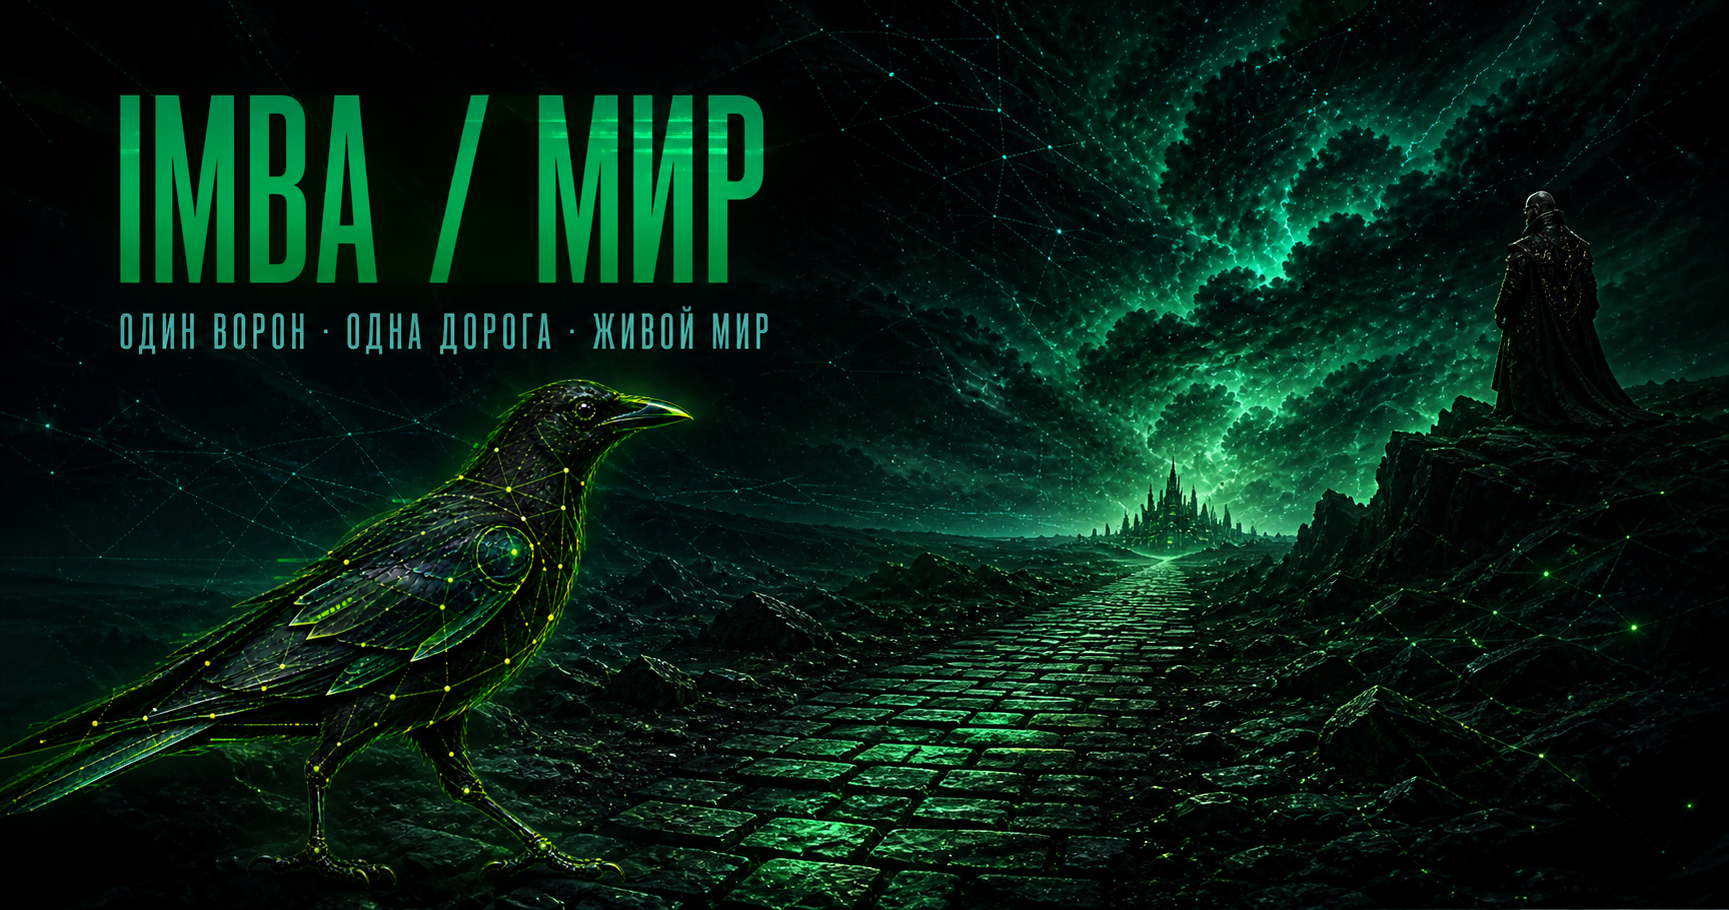
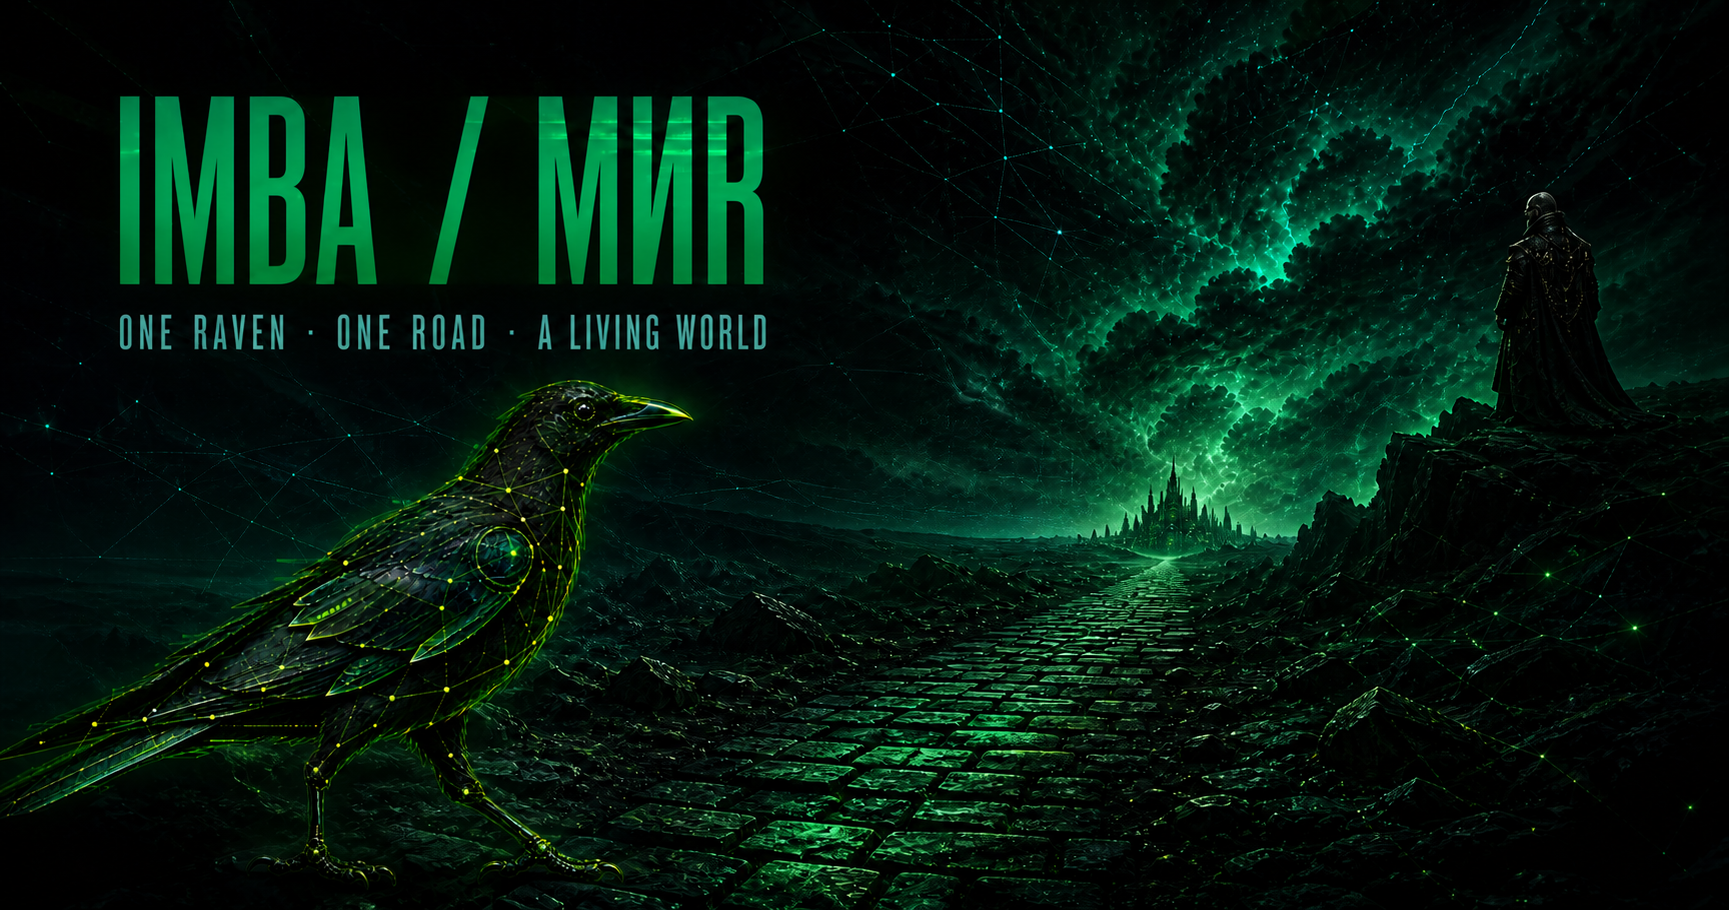
release: make English the default language

diff --git a/ui/app/page.tsx b/ui/app/page.tsx
@@ -465,7 +465,7 @@ function observedTutorialMechanics(world: WorldState): TutorialObservation[] {
 }
 
 export default function WorldHome() {
-  const [locale, setLocale] = useState<Locale>("ru");
+  const [locale, setLocale] = useState<Locale>("en");
   const [world, setWorld] = useState<WorldState | null>(null);
   const [connected, setConnected] = useState(false);
   const [busy, setBusy] = useState(false);
@@ -1257,11 +1257,13 @@ export default function WorldHome() {
           </div>
           <nav className="game-menu-actions" aria-label="Главное меню">
             <div className="game-menu-chapters" role="list" aria-label="Доступные главы">
-              {STORY_CHAPTERS.map((chapter) => (
-                <button key={chapter.id} type="button" role="listitem" data-active={chapter.id === selectedChapter.id} data-locked={!isChapterUnlocked(chapter.id)} disabled={!isChapterUnlocked(chapter.id)} aria-label={isChapterUnlocked(chapter.id) ? `Глава ${chapter.numeral}: ${chapter.title}` : `Глава ${chapter.numeral} закрыта до прохождения предыдущей`} onClick={() => selectChapter(chapter.id)}>
-                  <span>{String(chapter.order).padStart(2, "0")} / ГЛАВА {chapter.numeral}</span><b>{isChapterUnlocked(chapter.id) ? chapter.publication.label : "ЗАКРЫТА ◇"}</b><small>{isChapterUnlocked(chapter.id) ? chapter.title : "ПРОЙДИТЕ ПРЕДЫДУЩУЮ ГЛАВУ"}</small>
-                </button>
-              ))}
+              {STORY_CHAPTERS.map((chapter) => {
+                const unlocked = isChapterUnlocked(chapter.id);
+                const chapterWord = locale === "en" ? "CHAPTER" : "ГЛАВА";
+                return <button key={chapter.id} type="button" role="listitem" data-active={chapter.id === selectedChapter.id} data-locked={!unlocked} disabled={!unlocked} aria-label={unlocked ? `${chapterWord} ${chapter.numeral}: ${chapter.title}` : locale === "en" ? `Chapter ${chapter.numeral} is locked until the previous chapter is completed` : `Глава ${chapter.numeral} закрыта до прохождения предыдущей`} onClick={() => selectChapter(chapter.id)}>
+                  <span>{String(chapter.order).padStart(2, "0")} / {chapterWord} {chapter.numeral}</span><b>{unlocked ? chapter.publication.label : locale === "en" ? "LOCKED ◇" : "ЗАКРЫТА ◇"}</b><small>{unlocked ? chapter.title : locale === "en" ? "COMPLETE THE PREVIOUS CHAPTER" : "ПРОЙДИТЕ ПРЕДЫДУЩУЮ ГЛАВУ"}</small>
+                </button>;
+              })}
             </div>
             <div className="author-frontier"><span>ОПУБЛИКОВАНО 0—1</span><b>ДАЛЬШЕ — ТОЛЬКО ПОСЛЕ АВТОРА</b></div>
             <button type="button" className="menu-primary" onClick={continueWorld} disabled={!connected}>

diff --git a/ui/app/layout.tsx b/ui/app/layout.tsx
@@ -2,25 +2,25 @@ import type { Metadata, Viewport } from "next";
 import "./globals.css";
 
 export const metadata: Metadata = {
-  title: "Imba — Один тик, один Мир",
-  description: "Одна стопка Imba растёт подтверждёнными тиками, пока её не перебьёт Природа.",
+  title: "IMBA / MIR — One Tick, One World",
+  description: "A bilingual video game and mathematics project whose living World runs on Lean 4.",
   openGraph: {
-    title: "IMBA / МИР — Один Ворон, одна дорога, живой Мир",
-    description: "Магические формулы становятся наблюдаемыми действиями на дороге к Изумрудному замку.",
+    title: "IMBA / MIR — One Raven, One Road, a Living World",
+    description: "Formal expressions become observable actions on the road to the Emerald Castle.",
     type: "website",
     images: [
       {
         url: "/og.png",
         width: 1728,
         height: 910,
-        alt: "Цифровой Ворон на зелёной дороге к Изумрудному замку",
+        alt: "The digital Raven on the green road to the Emerald Castle",
       },
     ],
   },
   twitter: {
     card: "summary_large_image",
-    title: "IMBA / МИР — Один Ворон, одна дорога, живой Мир",
-    description: "Магические формулы становятся наблюдаемыми действиями на дороге к Изумрудному замку.",
+    title: "IMBA / MIR — One Raven, One Road, a Living World",
+    description: "Formal expressions become observable actions on the road to the Emerald Castle.",
     images: ["/og.png"],
   },
 };
@@ -33,7 +33,7 @@ export const viewport: Viewport = {
 
 export default function RootLayout({ children }: Readonly<{ children: React.ReactNode }>) {
   return (
-    <html lang="ru">
+    <html lang="en">
       <body>{children}</body>
     </html>
   );

diff --git a/ui/app/i18n.tsx b/ui/app/i18n.tsx
@@ -6,7 +6,7 @@ export const LOCALE_MEMORY_KEY = "imba.locale.v1";
 
 const EN: Record<string, string> = {
   // Menu and common interface
-  "IMBA / МИР": "IMBA / WORLD",
+  "IMBA / МИР": "IMBA / MIR",
   "ГЛАВА": "CHAPTER",
   "ГЛАВА ": "CHAPTER ",
   "ГЛАВНОЕ МЕНЮ": "MAIN MENU",

diff --git a/docs/RELEASE_v0.1.3.md b/docs/RELEASE_v0.1.3.md
@@ -1,33 +1,34 @@
-# IMBA / МИР v0.1.3
+# IMBA / MIR v0.1.3
 
-![IMBA / МИР — Ворон на зелёной дороге](https://raw.githubusercontent.com/kernelpanic888/imba-mir/v0.1.3/docs/assets/imba-mir-cover.png)
+![IMBA / MIR — The Raven on the Green Road](https://raw.githubusercontent.com/kernelpanic888/imba-mir/v0.1.3/docs/assets/imba-mir-cover.png)
 
-Версия `v0.1.3` делает магическую формулу читаемой до её закрепления и
-проясняет главный закон прохождения: Ворон и Мир должны остаться живы, а
-баланс не должен упасть до нуля.
+Version `v0.1.3` makes a formula readable before it is committed and clarifies
+the central rule of the journey: both the Raven and the living World must
+survive, and their balance must never fall to zero.
 
-Это одновременно **video game** и **mathematics software**: игровой Мир
-исполняется через Lean 4, а его допустимые переходы задаются формальными
-определениями и доказуемыми инвариантами.
+IMBA / MIR is both a **video game** and a **mathematics project**. Its World is
+executed through Lean 4, while admissible transitions are governed by formal
+definitions and preserved invariants.
 
-## Главное
+## Highlights
 
-- наведение на руну показывает честный предпросмотр формулы, её индивидуала,
-  F/C/R и будущего действия на Срезе реальности;
-- клик закрепляет выбранную руну, а Lean-проверка использует только
-  закреплённую формулу;
-- баланс вынесен в тело живого Мира и явно обозначен как критерий жизни;
-- следующая глава открывается только после завершения предыдущей;
-- авторское имя унифицировано как **Aleksey Salkutsan**;
-- в репозиторий добавлена каноническая широкоформатная обложка релиза.
+- Hovering or focusing a rune now previews the resulting formula, its unique
+  identity, F/C/R values, and its projected action in the Reality Slice.
+- Clicking commits the selected rune; Lean validation uses committed choices
+  only.
+- Balance is now embodied by the living World and clearly presented as the
+  primary survival condition.
+- Each chapter unlocks only after the preceding chapter has been completed.
+- The author name is consistently presented as **Aleksey Salkutsan**.
+- The canonical widescreen artwork is included in the repository and release.
 
-## Проверка
+## Verification
 
-- UI production build: PASS;
-- UI tests: 2/2 PASS;
-- Lean build: 27/27 PASS;
-- Python tests: 14/14 PASS;
-- protocol and authority audit: PASS.
+- UI production build: PASS
+- UI tests: 2/2 PASS
+- Lean build: 27/27 PASS
+- Python tests: 14/14 PASS
+- Protocol and authority audit: PASS
 
-Живая веб-версия остаётся приватной до отдельного решения автора о публичном
-доступе. Исходный код этого релиза публикуется для чтения, проверки и запуска.
+The hosted game remains private until the author explicitly chooses public
+access. This source release is public for reading, verification, and local use.

diff --git a/README.md b/README.md
@@ -8,6 +8,7 @@
 **Author:** [Aleksey Salkutsan](AUTHORS.md)  
 **Source release:** `v0.1.3`
 **Repository:** [github.com/kernelpanic888/imba-mir](https://github.com/kernelpanic888/imba-mir)
+**Play:** [Open the hosted game](https://imba-mir-aleksey.kernelpanic888.chatgpt.site/)
 **Categories:** Video game · Mathematics · Lean 4 formal methods
 
 Imba is a one-player game about building an unbounded stack in one square
